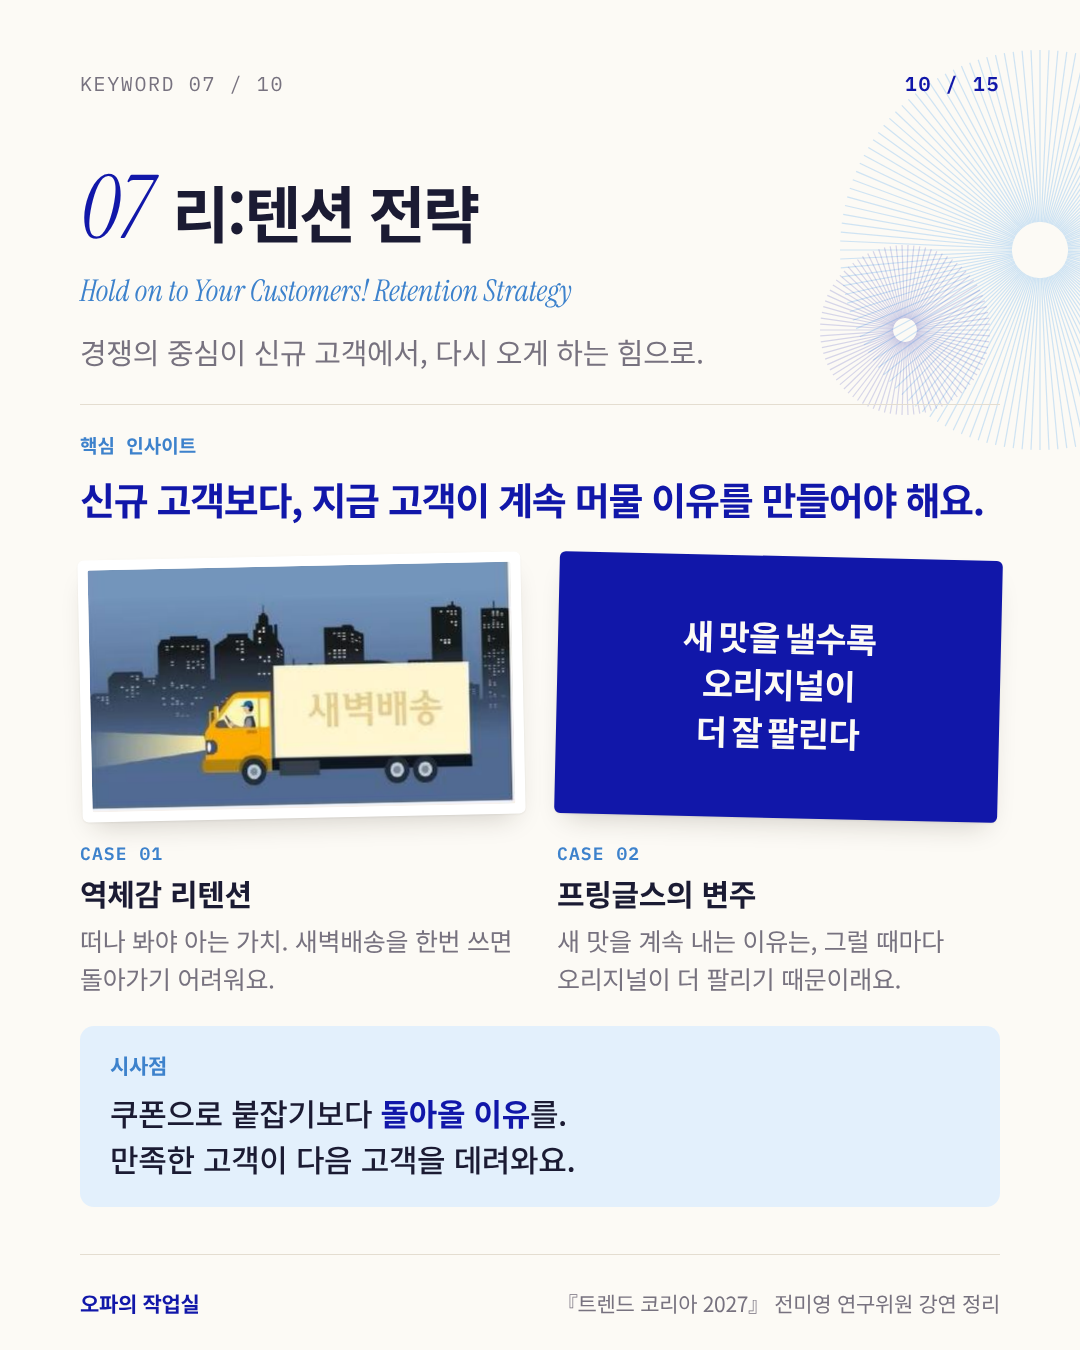
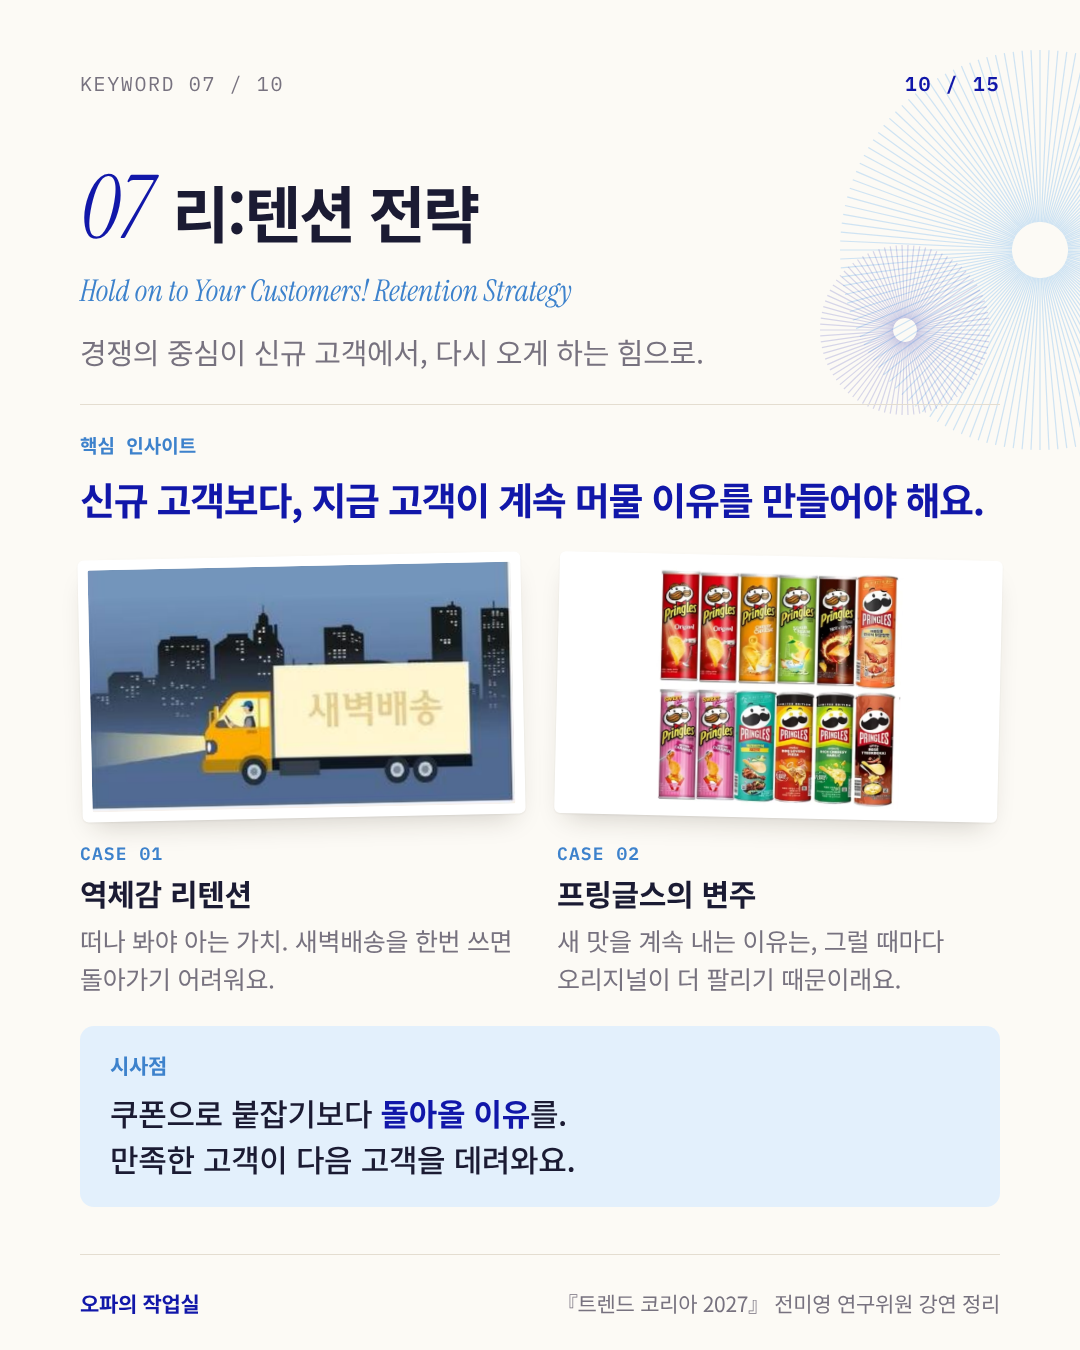
리텐션 카드: 프링글스 사례를 제품 라인업 사진으로
Claude-Session: https://claude.ai/code/session_016hvv34jPWo253fQY5tLEVV

Changed region(s): [[0.4889, 0.4044, 0.9472, 0.6222]]

diff --git a/cardnews/trend-korea-2027/full2/full.html b/cardnews/trend-korea-2027/full2/full.html
@@ -134,7 +134,7 @@
   <div class="lab">핵심 인사이트</div>
   <h3>신규 고객보다, 지금 고객이 계속 머물 이유를 만들어야 해요.</h3>
   <div class="cases"><div class="case"><div class="ph "><img src="../img/dawn.png" alt=""></div><div class="cl">CASE 01</div>
-      <div class="ch">역체감 리텐션</div><div class="cd">떠나 봐야 아는 가치. 새벽배송을 한번 쓰면 돌아가기 어려워요.</div></div><div class="case"><div class="ph qt "><p>새 맛을 낼수록<br>오리지널이<br>더 잘 팔린다</p></div><div class="cl">CASE 02</div>
+      <div class="ch">역체감 리텐션</div><div class="cd">떠나 봐야 아는 가치. 새벽배송을 한번 쓰면 돌아가기 어려워요.</div></div><div class="case"><div class="ph "><img src="../img/pringles.png" alt=""></div><div class="cl">CASE 02</div>
       <div class="ch">프링글스의 변주</div><div class="cd">새 맛을 계속 내는 이유는, 그럴 때마다 오리지널이 더 팔리기 때문이래요.</div></div></div>
   <div class="beauty"><span>시사점</span>쿠폰으로 붙잡기보다 <b>돌아올 이유</b>를.<br>만족한 고객이 다음 고객을 데려와요.</div>
   <div class="foot"><span>오파의 작업실</span><span>『트렌드 코리아 2027』 전미영 연구위원 강연 정리</span></div>

diff --git a/cardnews/trend-korea-2027/full2/full.css b/cardnews/trend-korea-2027/full2/full.css
@@ -90,3 +90,4 @@ h2.big.quote { font-size: 80px; }
 .lead.close { margin-top: 0; padding-top: 40px; border-top: 1px solid var(--line); }
 .cover-photo { display: block; width: 953px; margin: 18px 0 0 -13px; }
 .cover-photo + .banner { margin-top: 14px; }
+.ph img[src$="pringles.png"] { object-fit: contain; background: #fff; }

diff --git a/cardnews/trend-korea-2027/full2/build.py b/cardnews/trend-korea-2027/full2/build.py
@@ -80,7 +80,7 @@ KW = [
     ('07', '리:텐션 전략', 'Hold on to Your Customers! Retention Strategy', '경쟁의 중심이 신규 고객에서, 다시 오게 하는 힘으로.',
      '신규 고객보다, 지금 고객이 계속 머물 이유를 만들어야 해요.',
      [('dawn', '역체감 리텐션', '떠나 봐야 아는 가치. 새벽배송을 한번 쓰면 돌아가기 어려워요.'),
-      ('quote:새 맛을 낼수록<br>오리지널이<br>더 잘 팔린다', '프링글스의 변주', '새 맛을 계속 내는 이유는, 그럴 때마다 오리지널이 더 팔리기 때문이래요.')],
+      ('pringles', '프링글스의 변주', '새 맛을 계속 내는 이유는, 그럴 때마다 오리지널이 더 팔리기 때문이래요.')],
      '쿠폰으로 붙잡기보다 <b>돌아올 이유</b>를.<br>만족한 고객이 다음 고객을 데려와요.'),
     ('08', '휴먼엣지', 'Every AI Needs the Human Edge', 'AI가 결과를 쉽게 만드는 시대, 사람의 경험·손길·시간이 차별화가 된다.',
      'AI가 답을 늘릴수록, 사람이 고르는 기준이 남아요.',
